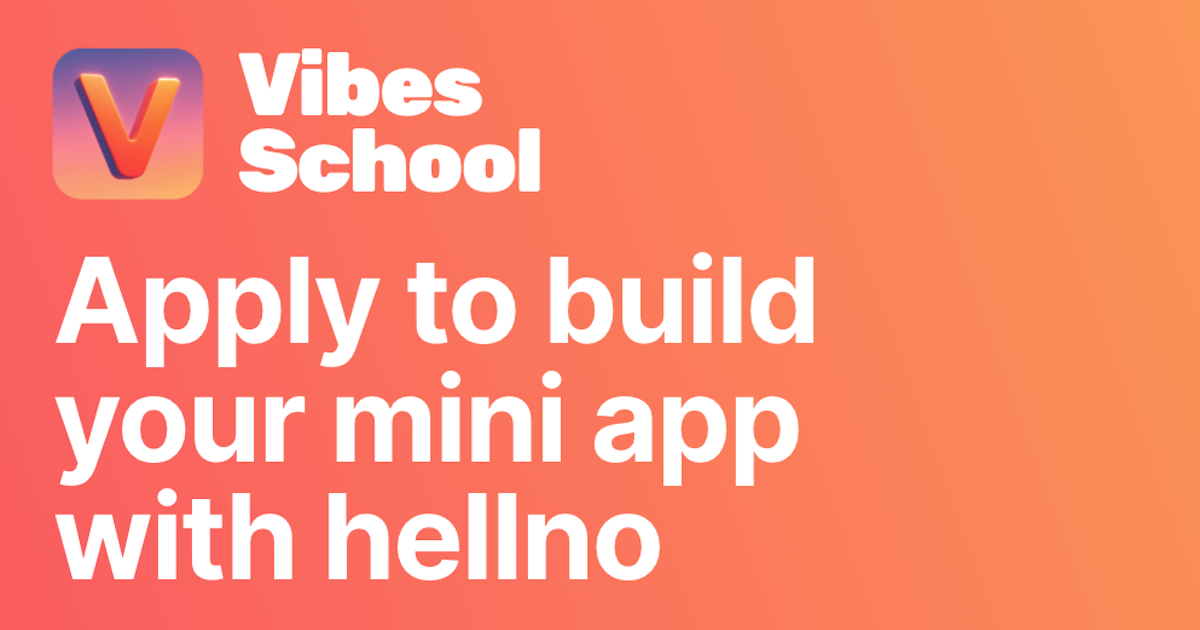
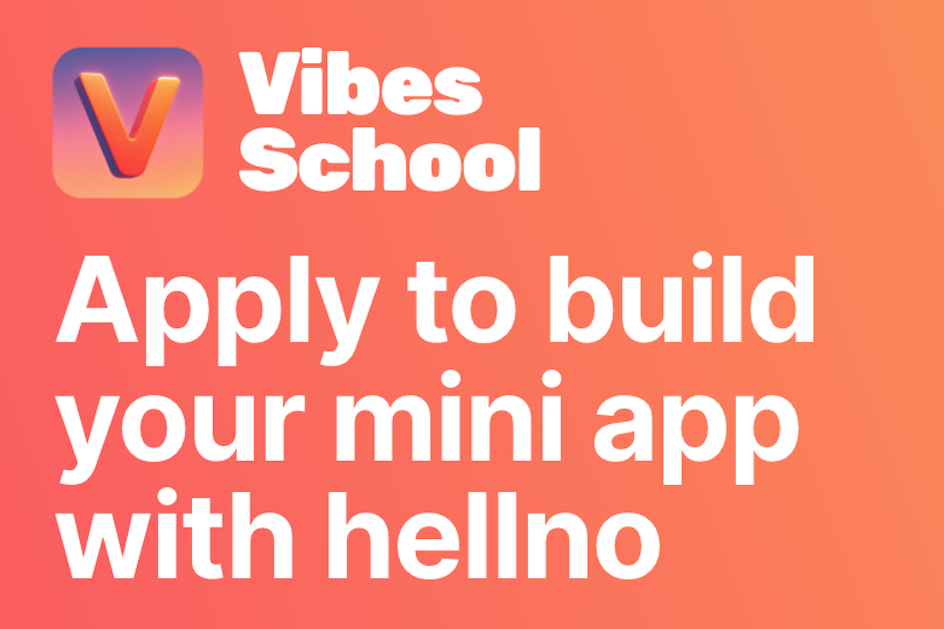
set 3:2 ratio

Changed region(s): [[0.0307, 0.3927, 0.8602, 0.9364], [0.0307, 0.0604, 0.5837, 0.3323], [0.0614, 0.3021, 0.0922, 0.3323]]

diff --git a/src/app/.well-known/farcaster.json/route.ts b/src/app/.well-known/farcaster.json/route.ts
@@ -18,8 +18,8 @@ export async function GET() {
       name: PROJECT_TITLE,
       iconUrl: `${appUrl}/icon.png`,
       homeUrl: appUrl,
-      imageUrl: `${appUrl}/opengraph-image?v=4`,
-      ogImageUrl: `${appUrl}/opengraph-image?v=4`,
+      imageUrl: `${appUrl}/opengraph-image?v=5`,
+      ogImageUrl: `${appUrl}/opengraph-image?v=5`,
       buttonTitle: "Open",
       splashImageUrl: `${appUrl}/splash.png`,
       splashBackgroundColor: "#f7f7f7",

diff --git a/src/app/opengraph-image.tsx b/src/app/opengraph-image.tsx
@@ -4,10 +4,6 @@ import { PROJECT_TITLE } from "~/lib/constants";
 
 export const alt = PROJECT_TITLE;
 export const contentType = "image/png";
-export const size = {
-  width: 1200,
-  height: 630,
-};
 
 export default async function Image() {
   const imagePath = join(process.cwd(), "public", "og.png");

diff --git a/src/app/page.tsx b/src/app/page.tsx
@@ -13,7 +13,7 @@ const appUrl =
 // NEVER change: version, action.type, action structure
 const frame = {
   version: "next",
-  imageUrl: `${appUrl}/opengraph-image?v=4`,
+  imageUrl: `${appUrl}/opengraph-image?v=5`,
   button: {
     title: "Open",
     action: {
